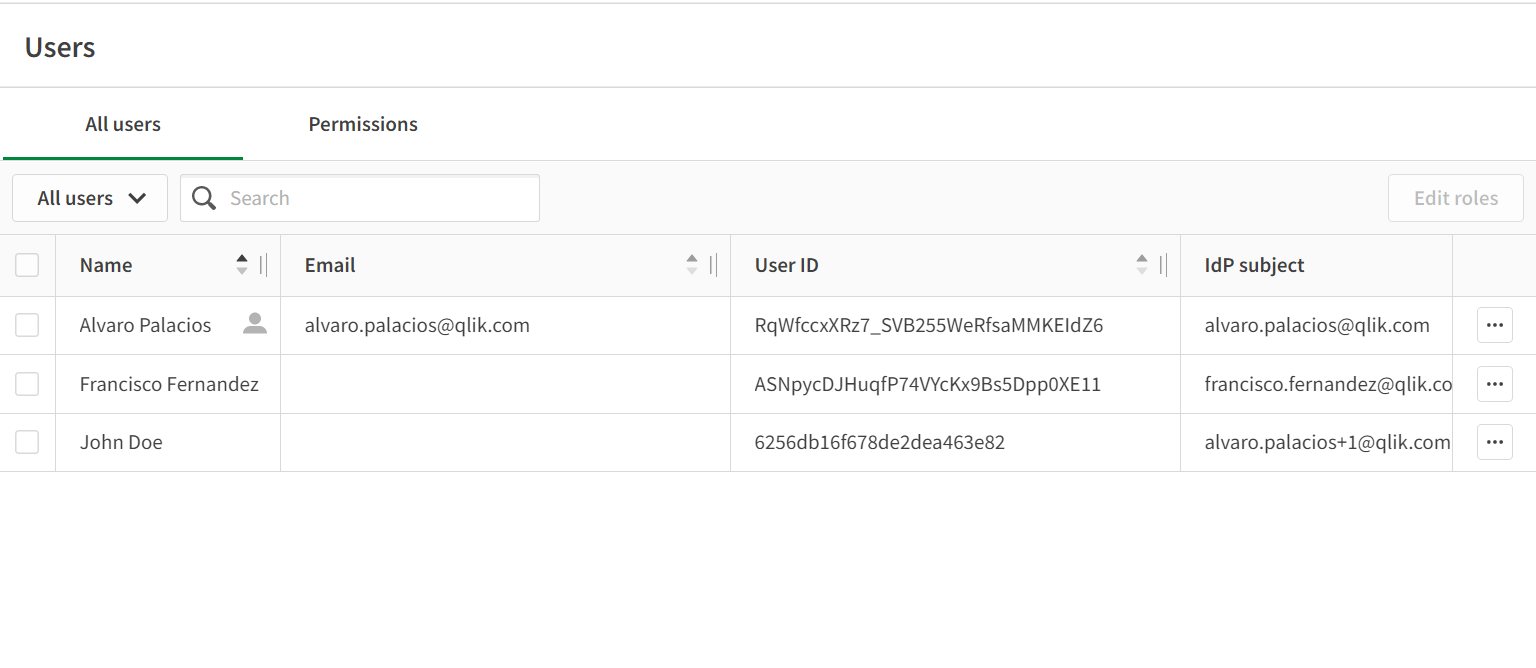
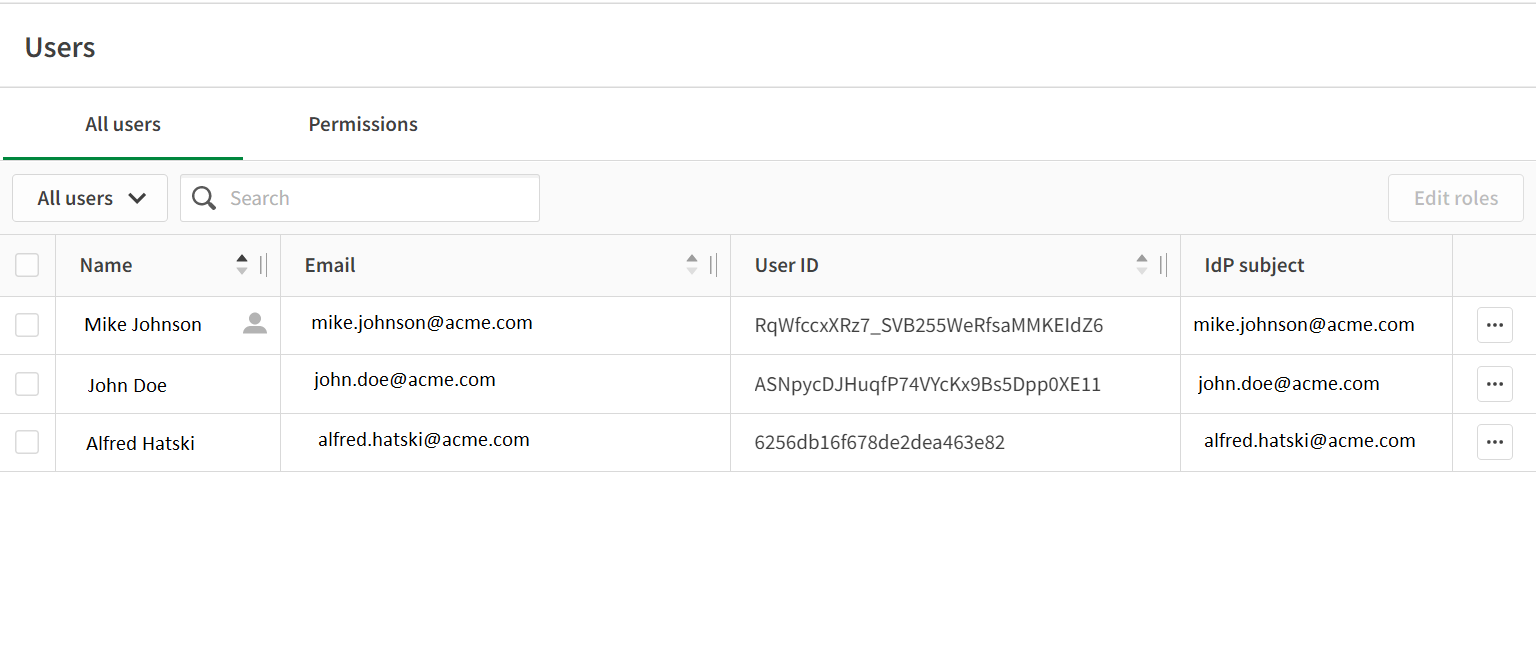
Remove all real information from text and images

diff --git a/CM Ticketing to SaaS JWT.md b/CM Ticketing to SaaS JWT.md
@@ -110,10 +110,10 @@ Here is a sample JWT payload including the new mandatory attribute `jti` and opt
 
     {
         "jti": "k5bU_cFI4_-vFfpJ3DjDsIZK-ZhJGRbBfusUWZ0ifBI",
-        "sub": "SomeSampleSeedValue", //e.g. QLIK\Alvaro or auth0|a08D000001C6YtJIAV
+        "sub": "SomeSampleSeedValue", //e.g. ACME\Mike or auth0|a08D000001C6YtJIAV
         "subType": "user",
-        "name": "Alvaro Palacios",
-        "email": "alvaro.palacios@qlik.com",
+        "name": "Mike Johnson",
+        "email": "mike.johnson@acme.com",
         "email_verified": true,
         "groups": ["Developers", "Sales", "Presales"]
     }
@@ -123,7 +123,7 @@ Here is a sample of the signing options in JWT including the new mandatory atttr
     {
         "keyid": "eccf892a-3457-6789-4455-a11g3f869a47",
         "algorithm": "RS256",
-        "issuer": "https://oemiberia.eu.qlikcloud.com",
+        "issuer": "https://mytenant.eu.qlikcloud.com",
         "expiresIn": "1h",
         "notBefore": "0s",
         "audience": "qlik.api/login/jwt-session"
@@ -149,10 +149,10 @@ Example of JWT creation and signing code:
       jti: uid.sync(32), // 32 bytes random string
       sub: '0hEhiPyhMBdtOCv2UZKoLo4G24p-7R6eeGdZUQHF0-c',
       subType: 'user',
-      name: 'Alvaro Palacios',
-      email: 'alvaro.palacios@qlik.com',
+      name: 'Mike Johnson',
+      email: 'mike.johnson@acme.com',
       email_verified: true,
-      groups: ['Administrators', 'Presales', 'Qlik'],
+      groups: ['Administrators', 'Presales', 'Acme'],
     };
 
     const privateKey = fs.readFileSync('./certs/privatekey.pem');
@@ -162,7 +162,7 @@ Example of JWT creation and signing code:
     const signingOptions = {
       keyid: 'my-custom-jwt',
       algorithm: 'RS256',
-      issuer: 'https://oemiberia.eu.qlikcloud.com',
+      issuer: 'https://mytenant.eu.qlikcloud.com',
       expiresIn: '1h',
       notBefore: '0s',
       audience: 'qlik.api/login/jwt-session',

diff --git a/CM JWT to SaaS JWT.md b/CM JWT to SaaS JWT.md
@@ -71,10 +71,10 @@ Here is a sample JWT payload including the new mandatory attribute `jti` and opt
 
     {
         "jti": "k5bU_cFI4_-vFfpJ3DjDsIZK-ZhJGRbBfusUWZ0ifBI",
-        "sub": "SomeSampleSeedValue", //e.g. QLIK\Alvaro or auth0|a08D000001C6YtJIAV
+        "sub": "SomeSampleSeedValue", //e.g. ACME\Mike or auth0|a08D000001C6YtJIAV
         "subType": "user",
-        "name": "Alvaro Palacios",
-        "email": "alvaro.palacios@qlik.com",
+        "name": "Mike Johnson",
+        "email": "mike.johnson@acme.com",
         "email_verified": true,
         "groups": ["Developers", "Sales", "Presales"]
     }
@@ -84,7 +84,7 @@ Here is a sample of the signing options in JWT including the new mandatory atttr
     {
         "keyid": "eccf892a-3457-6789-4455-a11g3f869a47",
         "algorithm": "RS256",
-        "issuer": "https://oemiberia.eu.qlikcloud.com",
+        "issuer": "https://mytenant.eu.qlikcloud.com",
         "expiresIn": "1h",
         "notBefore": "0s",
         "audience": "qlik.api/login/jwt-session"
